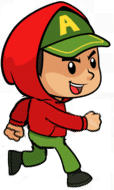
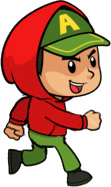
Добавлена возможность лазить по лестнице "сквозь" платформы

diff --git a/game.py b/game.py
@@ -86,8 +86,8 @@ class Enemy(pygame.sprite.Sprite):
 
     # Подгружаем 2 состояния персонажа (с разным положением ног для имитации шагов)
     # Сейчас перс представлен мужиком с большой головой и сигаретой)
-    image1 = load_image("character_1.png")
-    image2 = load_image("character_2.png")
+    image1 = load_image("skin_1_1.png")
+    image2 = load_image("skin_1_2.png")
 
     def __init__(self, group, pos):
         super().__init__(group)
@@ -129,14 +129,15 @@ class Enemy(pygame.sprite.Sprite):
         for _ in range(*sorted((y, 0))):
             self.rect = self.rect.move(0, delta)
 
-            ss = pygame.sprite.spritecollide(self, platforms, dokill=False)
-            for s in ss:
-                if pygame.sprite.collide_mask(self, s):
-                    self.rect = self.rect.move(0, -delta)
-                    stop = True
+            if not self.climbing:
+                ss = pygame.sprite.spritecollide(self, platforms, dokill=False)
+                for s in ss:
+                    if pygame.sprite.collide_mask(self, s):
+                        self.rect = self.rect.move(0, -delta)
+                        stop = True
+                        break
+                if stop:
                     break
-            if stop:
-                break
 
             ss = pygame.sprite.spritecollide(self, barrels, dokill=False)
             for s in ss:
